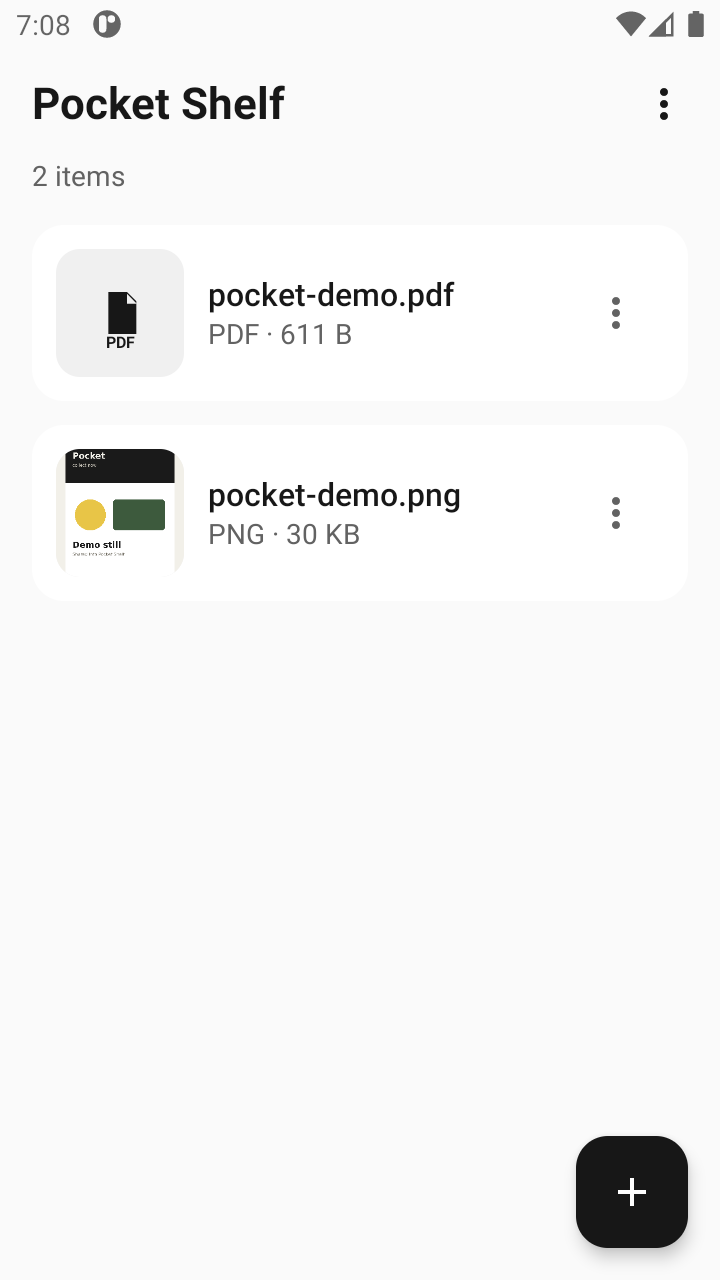
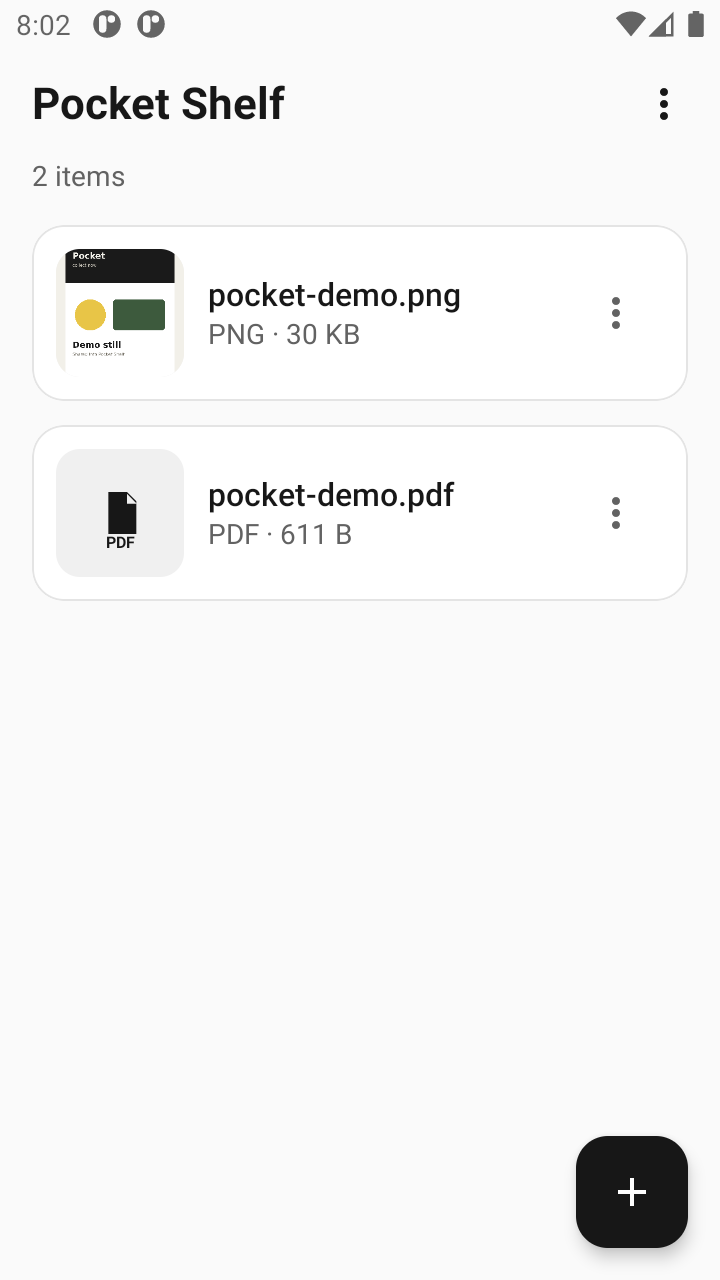
Give light ItemRows a 1dp decorative divider stroke.
White shelf cards sat on #FAFAFA with no edge. Map LightDivider (#E4E4E4)
to outlineVariant and stroke ItemRow in both themes via the named role.
Recapture populated-light.png from the running debug app.

diff --git a/app/src/main/java/com/shobhankarthish/pocket/ui/shelf/ShelfScreen.kt b/app/src/main/java/com/shobhankarthish/pocket/ui/shelf/ShelfScreen.kt
@@ -371,12 +371,14 @@ private fun ShelfItemCard(
             .fillMaxWidth()
             .clip(CardShape)
             .background(MaterialTheme.colorScheme.surface)
-            .then(
+            .border(
+                1.dp,
                 if (dark) {
-                    Modifier.border(1.dp, MaterialTheme.colorScheme.outline, CardShape)
+                    MaterialTheme.colorScheme.outline
                 } else {
-                    Modifier
+                    MaterialTheme.colorScheme.outlineVariant
                 },
+                CardShape,
             )
             .padding(12.dp),
         verticalAlignment = Alignment.CenterVertically,

diff --git a/app/src/main/java/com/shobhankarthish/pocket/ui/theme/Theme.kt b/app/src/main/java/com/shobhankarthish/pocket/ui/theme/Theme.kt
@@ -21,7 +21,7 @@ private val LightScheme = lightColorScheme(
     surfaceVariant = LightPlaceholder,
     onSurfaceVariant = LightSecondaryText,
     outline = LightOutline,
-    outlineVariant = LightOutline,
+    outlineVariant = LightDivider,
     inverseSurface = DarkBackground,
     inverseOnSurface = DarkPrimaryText,
     inversePrimary = DarkPrimaryText,

diff --git a/app/src/main/java/com/shobhankarthish/pocket/ui/theme/Color.kt b/app/src/main/java/com/shobhankarthish/pocket/ui/theme/Color.kt
@@ -8,6 +8,7 @@ val LightPrimaryText = Color(0xFF171717)
 val LightSecondaryText = Color(0xFF626262)
 val LightPlaceholder = Color(0xFFF0F0F0)
 val LightOutline = Color(0xFFE8E8E8)
+val LightDivider = Color(0xFFE4E4E4)
 
 val DarkBackground = Color(0xFF121212)
 val DarkContainer = Color(0xFF1C1C1C)
